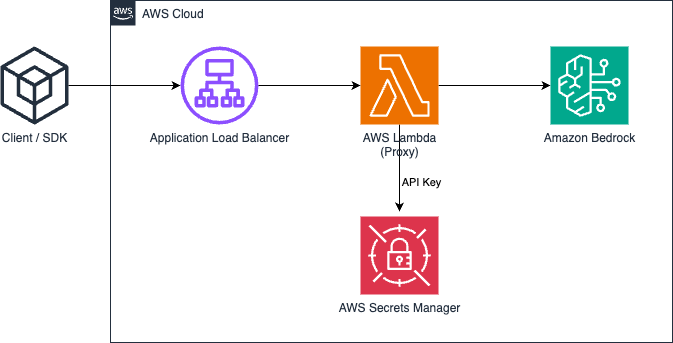
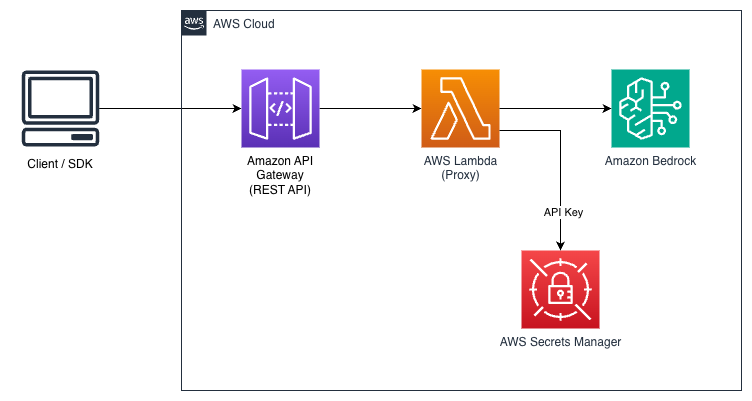
feat(apigw): add API Gateway response streaming support (#207)
Replace ALB + Lambda architecture with API Gateway REST API + Lambda
using response streaming for SSE support. This provides:

- No VPC required, reducing complexity and cost
- Native streaming support via API Gateway response streaming
- Pay-per-request pricing model

Changes:
- Add Lambda Web Adapter to Dockerfile for streaming support
- Replace BedrockProxy.template with API Gateway configuration
- Update README with new deployment options and latest models
- Update architecture diagram for API Gateway flow

diff --git a/README.md b/README.md
@@ -4,9 +4,16 @@ OpenAI-compatible RESTful APIs for Amazon Bedrock
 
 ## What's New 🔥
 
-This project now supports **Claude Sonnet 4.5**, Anthropic's most intelligent model with enhanced coding capabilities and complex agent support, available via global cross-region inference.
+**API Gateway Response Streaming Support** - You can now deploy with Amazon API Gateway REST API instead of ALB, enabling true response streaming for better latency and cost optimization. See [Deployment Options](#deployment-options) for details.
 
-It also supports reasoning for both **Claude 3.7 Sonnet** and **DeepSeek R1**. Check [How to Use](./docs/Usage.md#reasoning) for more details. You need to first run the Models API to refresh the model list.
+**Latest Models Supported:**
+- **Claude 4.5 Family**: Opus 4.5, Sonnet 4.5, Haiku 4.5 - Anthropic's most intelligent models with enhanced coding and agent capabilities
+- **Amazon Nova**: Nova Micro, Nova Lite, Nova Pro, Nova Premier - Amazon's native foundation models with multimodal support
+- **DeepSeek**: DeepSeek-R1 (reasoning), DeepSeek-V3.1 - Advanced reasoning and general-purpose models
+- **Qwen 3**: Qwen3-32B, Qwen3-235B, Qwen3-Coder-30B, Qwen3-Coder-480B - Alibaba's latest language and coding models
+- **OpenAI OSS**: gpt-oss-20b, gpt-oss-120b - Open-source GPT models available via Bedrock
+
+It also supports reasoning for **Claude 4/4.5** (extended thinking and interleaved thinking) and **DeepSeek R1**. Check [How to Use](./docs/Usage.md#reasoning) for more details. You need to first run the Models API to refresh the model list.
 
 ## Overview
 
@@ -46,13 +53,18 @@ Please make sure you have met below prerequisites:
 
 ### Architecture
 
-The following diagram illustrates the reference architecture. Note that it also includes a new **VPC** with two public subnets only for the Application Load Balancer (ALB).
+The following diagram illustrates the reference architecture. It uses [Amazon API Gateway response streaming](https://aws.amazon.com/blogs/compute/building-responsive-apis-with-amazon-api-gateway-response-streaming/) with Lambda for SSE support.
 
 ![Architecture](assets/arch.png)
 
-You can also choose to use [AWS Fargate](https://aws.amazon.com/fargate/) behind the ALB instead of [AWS Lambda](https://aws.amazon.com/lambda/), the main difference is the latency of the first byte for streaming response (Fargate is lower).
+### Deployment Options
 
-Alternatively, you can use Lambda Function URL to replace ALB, see [example](https://github.com/awslabs/aws-lambda-web-adapter/tree/main/examples/fastapi-response-streaming)
+| Option | Pros | Cons | Best For |
+|--------|------|------|----------|
+| **API Gateway + Lambda** | No VPC required, pay-per-request, native streaming support, lower operational overhead | Potential cold starts | Most use cases, cost-sensitive deployments |
+| **ALB + Fargate** | Lowest streaming latency, no cold starts | Higher cost, requires VPC | High-throughput, latency-sensitive workloads |
+
+You can also use Lambda Function URL as an alternative, see [example](https://github.com/awslabs/aws-lambda-web-adapter/tree/main/examples/fastapi-response-streaming)
 
 ### Deployment
 
@@ -105,8 +117,8 @@ After creation, you'll see your secret in the Secrets Manager console. Make note
 **Step 3: Deploy the CloudFormation stack**
 
 1. Download the CloudFormation template you want to use:
-   - For Lambda: [`deployment/BedrockProxy.template`](deployment/BedrockProxy.template)
-   - For Fargate: [`deployment/BedrockProxyFargate.template`](deployment/BedrockProxyFargate.template)
+   - For API Gateway + Lambda: [`deployment/BedrockProxy.template`](deployment/BedrockProxy.template)
+   - For ALB + Fargate: [`deployment/BedrockProxyFargate.template`](deployment/BedrockProxyFargate.template)
 
 2. Sign in to AWS Management Console and navigate to the CloudFormation service in your target region.
 
@@ -227,7 +239,7 @@ For more information about creating and managing application inference profiles,
 This proxy now supports **Prompt Caching** for Claude and Nova models, which can reduce costs by up to 90% and latency by up to 85% for workloads with repeated prompts.
 
 **Supported Models:**
-- Claude 3+ models (Claude 3.5 Haiku, Claude 3.7 Sonnet, Claude 4, Claude 4.5, etc.)
+- Claude models (Claude 3.5 Haiku, Claude 4, Claude 4.5, etc.)
 - Nova models (Nova Micro, Nova Lite, Nova Pro, Nova Premier)
 
 **Enabling Prompt Caching:**
@@ -249,7 +261,7 @@ client = OpenAI()
 
 # Cache system prompts
 response = client.chat.completions.create(
-    model="us.anthropic.claude-3-7-sonnet-20250219-v1:0",
+    model="global.anthropic.claude-haiku-4-5-20251001-v1:0",
     messages=[
         {"role": "system", "content": "You are an expert assistant with knowledge of..."},
         {"role": "user", "content": "Help me with this task"}
@@ -271,7 +283,7 @@ curl $OPENAI_BASE_URL/chat/completions \
   -H "Content-Type: application/json" \
   -H "Authorization: Bearer $OPENAI_API_KEY" \
   -d '{
-    "model": "us.anthropic.claude-3-7-sonnet-20250219-v1:0",
+    "model": "global.anthropic.claude-haiku-4-5-20251001-v1:0",
     "messages": [
       {"role": "system", "content": "Long system prompt..."},
       {"role": "user", "content": "Question"}
@@ -334,9 +346,11 @@ print(response)
 
 This application does not collect any of your data. Furthermore, it does not log any requests or responses by default.
 
-### Why not used API Gateway instead of Application Load Balancer?
+### Why choose API Gateway vs ALB?
 
-Short answer is that API Gateway does not support server-sent events (SSE) for streaming response.
+**API Gateway + Lambda** uses [API Gateway response streaming](https://aws.amazon.com/blogs/compute/building-responsive-apis-with-amazon-api-gateway-response-streaming/) with [Lambda Web Adapter](https://github.com/awslabs/aws-lambda-web-adapter) to support SSE streaming without requiring a VPC. This is a cost-effective, serverless option with up to 10 minutes timeout.
+
+**ALB + Fargate** provides the lowest streaming latency with no cold starts, ideal for high-throughput workloads.
 
 ### Which regions are supported?
 
@@ -360,9 +374,9 @@ The API base url should look like `http://localhost:8000/api/v1`.
 
 ### Any performance sacrifice or latency increase by using the proxy APIs
 
-Comparing with the AWS SDK call, the referenced architecture will bring additional latency on response, you can try and test that on you own.
+Compared with direct AWS SDK calls, the proxy architecture will add some latency. The default API Gateway + Lambda deployment provides good streaming performance with Lambda response streaming.
 
-Also, you can use Lambda Web Adapter + Function URL (see [example](https://github.com/awslabs/aws-lambda-web-adapter/tree/main/examples/fastapi-response-streaming)) to replace ALB or AWS Fargate to replace Lambda to get better performance on streaming response.
+For lowest latency on streaming responses, consider the ALB + Fargate deployment option which eliminates cold starts and provides consistent performance.
 
 ### Any plan to support SageMaker models?
 
